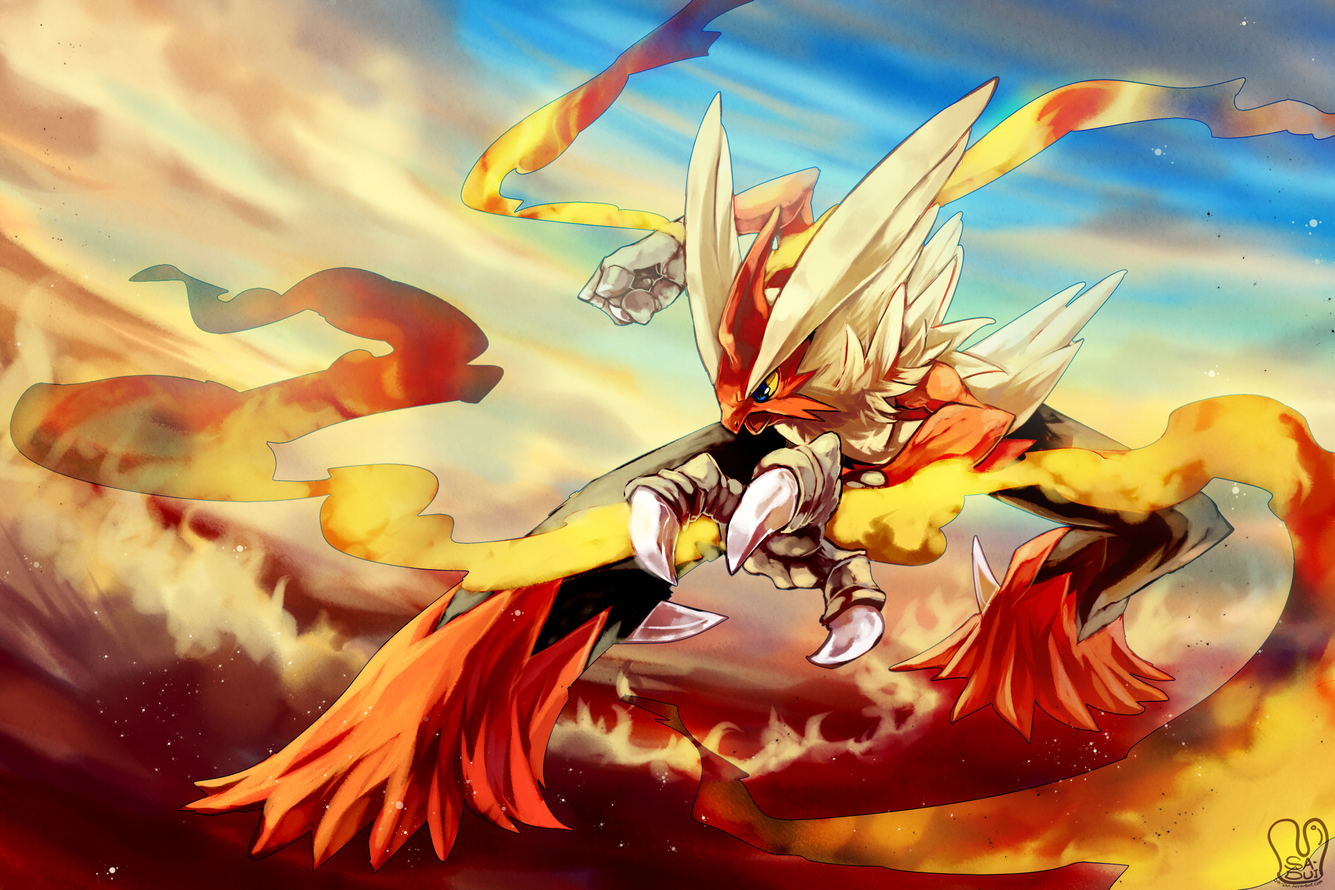
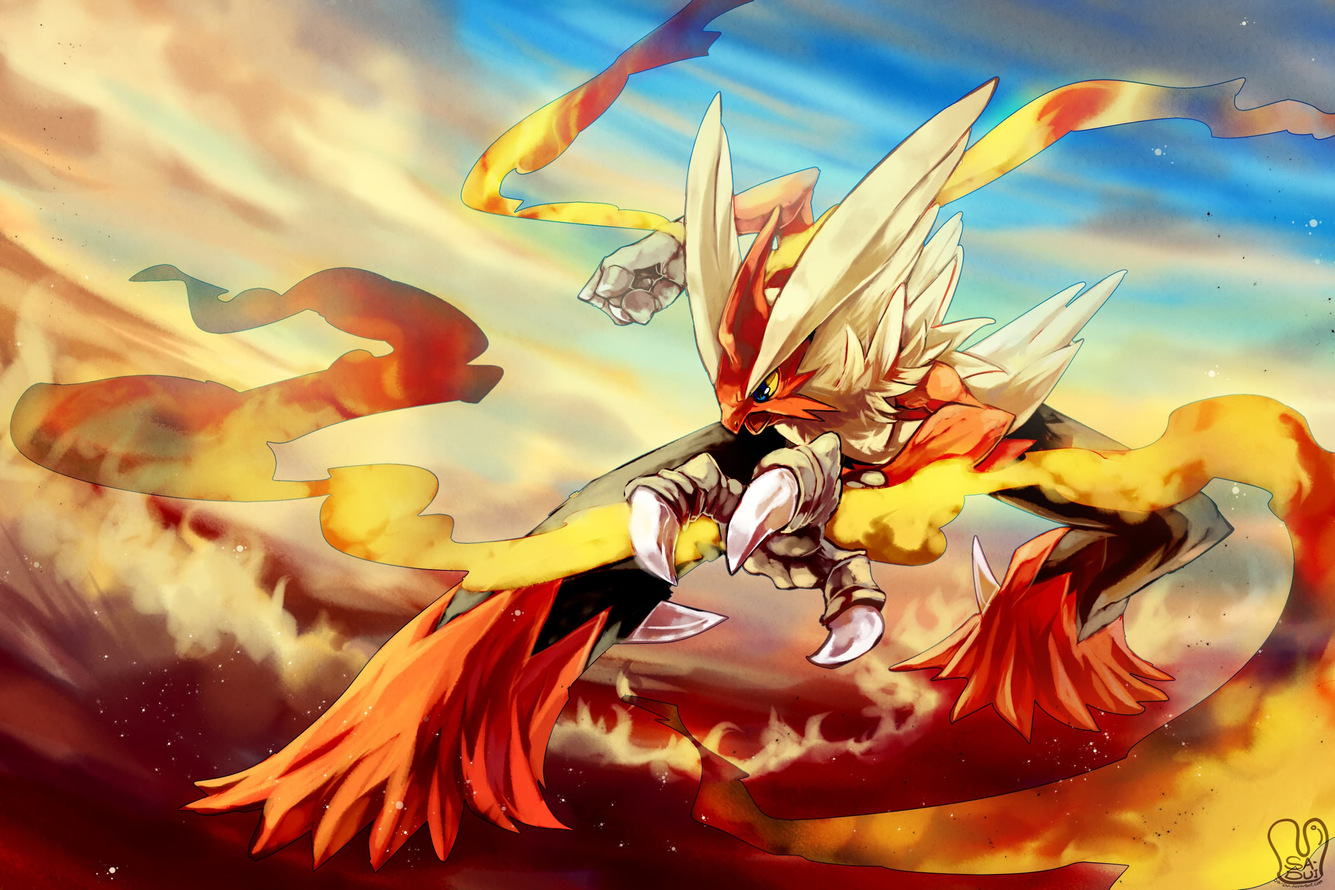
add fade in animation and resize images

diff --git a/src/hooks/useSlider.js b/src/hooks/useSlider.js
@@ -6,27 +6,19 @@ const useSlider = (view, images) => {
   useEffect(() => startSlider());
 
   const startSlider = () => {
-    view.current.style.height = '100vh';
     view.current.style.backgroundImage = `url(${images[0]})`;
-    view.current.style.backgroundPosition = 'center';
-    view.current.style.backgroundSize = 'cover';
-    view.current.style.backgroundAttachment = 'fixed';
   }
 
   const handleSlide = slide => {
-    // view.current.style.height = '100vh';
     view.current.style.backgroundImage = `url(${images[slide - 1]})`;
-    // view.current.style.backgroundPosition = 'center';
-    // view.current.style.backgroundSize = 'cover';
-    // view.current.style.backgroundAttachment = 'fixed';
     animateSlide(view);
   }
 
   const animateSlide = animatedSlide => {
-    // animatedSlide.current.classList.add('fadeIn');
-    // setTimeout(() => {
-    //   animatedSlide.current.classList.remove('fadeIn');
-    // }, 700);
+    animatedSlide.current.classList.add('fadeIn');
+    setTimeout(() => {
+      animatedSlide.current.classList.remove('fadeIn');
+    }, 700);
   }
 
   const goToPreviousSlide = () => {

diff --git a/src/images/images.js b/src/images/images.js
@@ -6,7 +6,7 @@ import charizard from './megaCharizard.jpg';
 import gallade from './megaGallade.png';
 import gengar from './megaGengar.jpg';
 import gyarados from './megaGyarados.jpg';
-import kangaskhan from './megaKangaskhan.png';
+import kangaskhan from './megaKangaskhan.jpg';
 import lucario from './megaLucario.jpg';
 import mewtwo from './megaMewtwo.jpg';
 import pinsir from './megaPinsir.jpg';
@@ -16,7 +16,6 @@ import venusaur from './megaVenusaur.jpg';
 
 const images = [
   gengar,
-  rayquaza,
   aerodactyl,
   alakazam,
   blastoise,

diff --git a/src/Components/MegadexView/MegadexView.css b/src/Components/MegadexView/MegadexView.css
@@ -1,5 +1,18 @@
-.MegadexView {
+.megadexView {
   height: 100vh;
+  width: 100%;
   text-align: center;
-  background-color: dimgray;
+  background-size: cover;
+  background-position: center;
+  background-attachment: fixed;
+  background-color: darkslategray;
+}
+
+.fadeIn {
+  animation: fadein 0.5s;
+}
+
+@keyframes fadein {
+  from{opacity: 0;}
+  to{opacity: 1;}
 }

diff --git a/src/Components/MegadexView/MegadexView.jsx b/src/Components/MegadexView/MegadexView.jsx
@@ -7,7 +7,7 @@ const MegadexView = () =>{
   const view = useRef(null);
   
   return (
-    <section className='MegadexView' id='megadex' ref={ view }>
+    <section className='megadexView' id='megadex' ref={ view }>
       <Slider images={ images } view={ view }/>
     </section>
   );

diff --git a/src/Components/Slider/Slider.css b/src/Components/Slider/Slider.css
@@ -5,3 +5,4 @@
   align-items: center;
   justify-content: space-between;
 }
+
